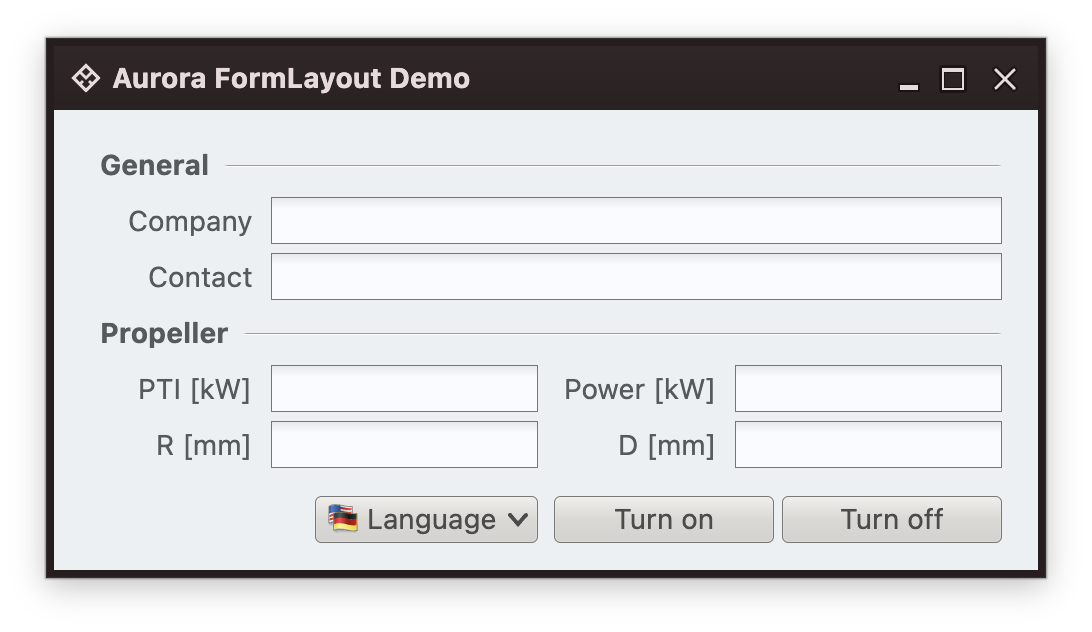
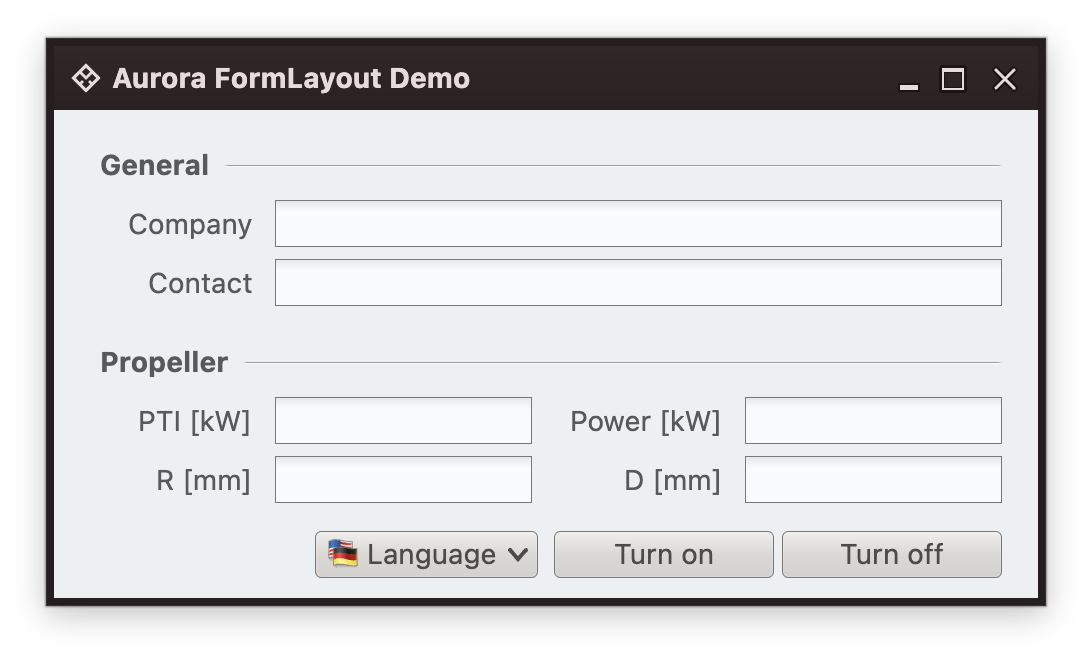
More doc
* Align the main layout demo with the original demo from FormLayout
* Wording tweaks in recently added docs
* Doc images for the quick start

For #99

diff --git a/demo/src/desktopMain/kotlin/org/pushingpixels/aurora/demo/layout/LayoutDemo11ComplexFormWithDebugOverlay.kt b/demo/src/desktopMain/kotlin/org/pushingpixels/aurora/demo/layout/LayoutDemo11ComplexFormWithDebugOverlay.kt
@@ -69,7 +69,7 @@ fun main() = auroraApplication {
         state = rememberWindowState(
             placement = WindowPlacement.Floating,
             position = WindowPosition.Aligned(Alignment.Center),
-            size = DpSize(500.dp, 240.dp)
+            size = DpSize(500.dp, 254.dp)
         ),
         windowTitlePaneConfiguration = AuroraWindowTitlePaneConfigurations.AuroraPlain(),
         icon = radiance_menu(),
@@ -80,8 +80,8 @@ fun main() = auroraApplication {
 
         FormLayout(
             modifier = Modifier.fillMaxSize().padding(Paddings.Dialog),
-            encodedColumnSpecs = "end:pref, 2dlu, pref:grow, 4dlu, end:pref, 2dlu, pref:grow",
-            encodedRowSpecs = "p, 2dlu, p, 2dlu, p, 2dlu, p, 2dlu, p, 2dlu, p",
+            encodedColumnSpecs = "end:pref, 3dlu, pref:grow, 7dlu, end:pref, 3dlu, pref:grow",
+            encodedRowSpecs = "p, 3dlu, p, 3dlu, p, 9dlu, p, 3dlu, p, 3dlu, p",
             colGroupIndices = arrayOf(intArrayOf(1, 5), intArrayOf(3, 7)),
             debugConfiguration = FormLayoutDebugConfiguration(
                 gridColor = Color.Magenta,

diff --git a/demo/src/desktopMain/kotlin/org/pushingpixels/aurora/demo/layout/LayoutDemo4ComplexFormLocalizedWithResourceBundle.kt b/demo/src/desktopMain/kotlin/org/pushingpixels/aurora/demo/layout/LayoutDemo4ComplexFormLocalizedWithResourceBundle.kt
@@ -70,7 +70,7 @@ fun main() = auroraApplication {
         state = rememberWindowState(
             placement = WindowPlacement.Floating,
             position = WindowPosition.Aligned(Alignment.Center),
-            size = DpSize(500.dp, 270.dp)
+            size = DpSize(500.dp, 284.dp)
         ),
         windowTitlePaneConfiguration = AuroraWindowTitlePaneConfigurations.AuroraPlain(),
         icon = radiance_menu(),
@@ -81,8 +81,8 @@ fun main() = auroraApplication {
 
         FormLayout(
             modifier = Modifier.fillMaxSize().padding(Paddings.Dialog),
-            encodedColumnSpecs = "end:pref, 2dlu, pref:grow, 4dlu, end:pref, 2dlu, pref:grow",
-            encodedRowSpecs = "p, 2dlu, p, 2dlu, p, 2dlu, p, 2dlu, p, 2dlu, p, 8dlu, p",
+            encodedColumnSpecs = "end:pref, 3dlu, pref:grow, 7dlu, end:pref, 3dlu, pref:grow",
+            encodedRowSpecs = "p, 3dlu, p, 3dlu, p, 9dlu, p, 3dlu, p, 3dlu, p, 8dlu, p",
             colGroupIndices = arrayOf(intArrayOf(1, 5), intArrayOf(3, 7))
         ) {
             Separator(

diff --git a/demo/src/desktopMain/kotlin/org/pushingpixels/aurora/demo/layout/LayoutDemo5ComplexFormLocalizedWithComposeResources.kt b/demo/src/desktopMain/kotlin/org/pushingpixels/aurora/demo/layout/LayoutDemo5ComplexFormLocalizedWithComposeResources.kt
@@ -70,7 +70,7 @@ fun main() = auroraApplication {
         state = rememberWindowState(
             placement = WindowPlacement.Floating,
             position = WindowPosition.Aligned(Alignment.Center),
-            size = DpSize(500.dp, 270.dp)
+            size = DpSize(500.dp, 284.dp)
         ),
         windowTitlePaneConfiguration = AuroraWindowTitlePaneConfigurations.AuroraPlain(),
         icon = radiance_menu(),
@@ -81,8 +81,8 @@ fun main() = auroraApplication {
 
         FormLayout(
             modifier = Modifier.fillMaxSize().padding(Paddings.Dialog),
-            encodedColumnSpecs = "end:pref, 2dlu, pref:grow, 4dlu, end:pref, 2dlu, pref:grow",
-            encodedRowSpecs = "p, 2dlu, p, 2dlu, p, 2dlu, p, 2dlu, p, 2dlu, p, 8dlu, p",
+            encodedColumnSpecs = "end:pref, 3dlu, pref:grow, 7dlu, end:pref, 3dlu, pref:grow",
+            encodedRowSpecs = "p, 3dlu, p, 3dlu, p, 9dlu, p, 3dlu, p, 3dlu, p, 8dlu, p",
             colGroupIndices = arrayOf(intArrayOf(1, 5), intArrayOf(3, 7))
         ) {
             Separator(

diff --git a/docs/layout/Intro.md b/docs/layout/Intro.md
@@ -2,13 +2,19 @@
 
 The `aurora-layout` module provides a port of Karsten Lentzsch's [FormLayout](https://www.jgoodies.com/freeware/libraries/forms/) from his JGoodies Forms library. The original implementation is for Swing, available under the BSD license.
 
-If you are familiar with `FormLayout`, the main differences coming into Aurora's port of it to Compose are:
+<img src="https://raw.githubusercontent.com/kirill-grouchnikov/aurora/icicle/docs/images/layout/form-layout-demo.png" width="546"/>
+
+`FormLayout` is a powerful, flexible and precise container that aligns components vertically and horizontally in a dynamic rectangular grid of cells, with each component occupying one or more cells.
+
+To define a form layout you specify the form's columns, rows and optionally column groups and row groups. Everything that applies to columns applies to rows too - just with a different orientation. `FormLayout` uses the same API, algorithms and implementation for columns and rows.
+
+If you are familiar with the original Swing-based `FormLayout` APIs, the main differences coming into Aurora's port of it to Compose are:
 
 * Using a custom DSL with scope-based functions instead of the builder-based API
 * Using `@` instead of `$` to refer to core and custom layout variables
 * Using `start` and `end` instead of `left` and `right` for column alignment
 * Using paddings instead of borders for better alignment with Compose terminology
-* No `I15d` (internationalized) builder to provide a more flexible support for Swing-based `ResourceBundle`s, Compose-based [string resources](https://kotlinlang.org/docs/multiplatform/compose-multiplatform-resources.html) and app-specific localization solutions
+* No `I15d` (internationalized) builder, leaving it to the app developer to decide between using Swing-based `ResourceBundle`s, Compose-based [string resources](https://kotlinlang.org/docs/multiplatform/compose-multiplatform-resources.html) or app-specific localization solutions
 
 
 ### Next

diff --git a/docs/layout/Dlu.md b/docs/layout/Dlu.md
@@ -12,7 +12,7 @@ The first one is a **device independent pixel** that abstracts away the pixel de
 
 The second one is **scalable pixel**. In the default configuration, it is the same size as `dp`. However, it resizes based on the user's preferred text size.
 
-In core Android and core Compose, the **sp** unit is reserved only for text sizes, and never for layout sizes. In this port of FormLayout, the `dlu` unit is the logical equivalent of the `sp` unit, and is **the recommended** way of configuring all layout sizes.
+In core Android and core Compose, the `sp` unit is reserved *only* for text sizes, and *never* for layout sizes. In the world of FormLayout, the `dlu` unit is the logical equivalent of the `sp` unit, and is **the recommended** way of configuring *all* layout sizes.
 
 To stay true to the origins of the `dlu` unit, FormLayout supports axis-specific resolution - for horizontal and vertical dialog units.
 
